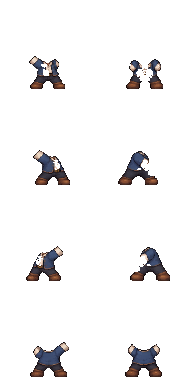
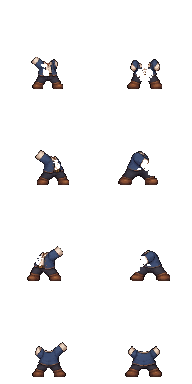
Fix registered character head layers and raised-hand occlusion

diff --git a/src/assets.js b/src/assets.js
@@ -64,19 +64,19 @@ const CHARACTER_TEMP_APPEARANCE_URLS=Object.freeze({
   berry:{icon:'assets/player/temporary-appearance/berry-icon.png'}
 });
 const CHARACTER_LAYER_URLS=Object.freeze({
-  walkBody:'assets/player/rig-v1/walk-body.png',
+  walkBody:'assets/player/polish-v1/walk-body.png',
   walkHead:'assets/player/polish-v1/walk-head.png',
   walkHair:'assets/player/polish-v1/walk-hair.png',
   walkOutfit:'assets/player/polish-v1/walk-outfit.png',
   walkBackpack:'assets/player/polish-v1/walk-backpack.png',
   walkGrip:'assets/player/rig-v1/walk-grip.png',
-  chopBody:'assets/player/rig-v1/chop-body.png',
+  chopBody:'assets/player/polish-v1/chop-body.png',
   chopHead:'assets/player/polish-v1/chop-head.png',
   chopHair:'assets/player/polish-v1/chop-hair.png',
   chopOutfit:'assets/player/polish-v1/chop-outfit.png',
   chopBackpack:'assets/player/polish-v1/chop-backpack.png',
   chopGrip:'assets/player/rig-v1/chop-grip.png',
-  fishBody:'assets/player/rig-v1/fish-body.png',
+  fishBody:'assets/player/polish-v1/fish-body.png',
   fishHead:'assets/player/polish-v1/fish-head.png',
   fishHair:'assets/player/polish-v1/fish-hair.png',
   fishOutfit:'assets/player/polish-v1/fish-outfit.png',

diff --git a/src/character.js b/src/character.js
@@ -109,7 +109,12 @@ function drawCharacterActor(actorX,actorY,pose=getCharacterPose()){
   if(transform?.behind)drawCharacterTool(transform);
   drawLayer('Body');drawLayer('Outfit');drawLayer('Backpack');
   if(!transform?.behind)drawCharacterTool(transform);
-  drawLayer('Head');drawLayer('Hair');drawLayer('Grip');
+  // A raised preparation hand passes behind the head. Drawing all gripping
+  // hands last made this skin patch look like an exposed bald rear skull.
+  const handBehindHead=(pose.pose==='chop'||pose.pose==='fish')&&pose.frame===0;
+  if(handBehindHead)drawLayer('Grip');
+  drawLayer('Head');drawLayer('Hair');
+  if(!handBehindHead)drawLayer('Grip');
   return transform;
 }
 

diff --git a/assets/player/source/polish-v1/PRODUCTION.md b/assets/player/source/polish-v1/PRODUCTION.md
@@ -1,5 +1,20 @@
 # 승인된 기본 캐릭터 — 게임용 부품 제작 기록
 
+## 2026-09-26 머리 등록·가림 수정 (최신 기준)
+
+최초 개별 Head/Hair 정렬은 뒤통수가 노출되어 부적합했다. 아래 최초 제작/검사 기록은 이력이다. 최신 pack-character-polish.mjs는 완성된 사방향 머리 원본을 한 번 등비 정규화하고 동일 좌표에서 피부/얼굴/귀와 헤어를 분리한다. 이전의 독립적인 bald skull 크기 맞춤은 사용하지 않는다. head-registration.png가 실제 합성 기준이며 자동 검사에서 정확한 픽셀 일치를 확인한다. Head는 현재 머리에서 보이는 얼굴/귀 픽셀을 갖는다. 향후 완전히 다른 헤어스타일은 이 얼굴과 새 헤어의 가림 마스크/숨겨진 두피를 함께 검토해야 하며 셀 크기만 맞춘다고 자동 호환되는 것으로 간주하지 않는다.
+
+- 제작 도구: 내장 image_gen 기본 모드, 투명 배경. CLI/API 키 미사용.
+- 입력: 승인된 turnaround-generated.png(스타일/동일 인물 참고).
+- 생성 원본 exec-fe8c4845-72a5-49de-9973-bfa694eb49e1.png를 head-registered-generated.png로 이 폴더에 보존했다.
+- 결과: assets/player/polish-v1/{walk,chop,fish}-{body,head,hair,outfit,backpack}.png 15개, outfit/backpack-icon.png 2개, head-registration.png 1개. Body는 기존 원본의 y54 위 분리 잔여만 제거한 복사본이며 손/몸 자세는 유지한다. 옷은 원화 비율을 등비 유지하고 원래 중심/발에 맞춘다.
+- 준비 자세의 그립 손은 머리 뒤에 그린다. 타격/대기/당기기 손 순서는 유지한다. 기존 rig-v1, 도구 및 리그/손 좌표/타이밍/저장은 변경하지 않았다. 임시 옷의 기존 디자인과 선택도 유지한다.
+- 검사는 qa-character-polish.mjs 및 QA_REPORT.md 최신 절 참고. Android 실기기 확인은 별도다.
+
+### 수정 원화의 정확한 프롬프트
+
+Use case: identity-preserve. Asset type: production pixel-art game head sprite atlas. Reference image is the approved male character turnaround. Create ONLY four fully assembled heads with attached brown hair, face and ears, no torso, no clothing, no neck longer than a tiny 2 pixel stem. EXACT layout 2 columns by 2 rows: top-left front/down, top-right looking right, bottom-left looking left, bottom-right rear/up. Same approved rounded layered chestnut hair, large brown eyes, peach skin, refined cozy RPG pixel-art outline. Each head is a unified correctly fitting silhouette, hair covers the entire crown and rear skull; absolutely no exposed bald forehead above hair and no skin protrusion behind hair. Rear view only brown hair and small ear tips, NO bare skull and NO long neck. Equal scale in every view, generous transparent margins within each equal cell. Preserve approved identity, hair design/color, direction, pixel art style. No props, no labels, no grid, no shadow, transparent background. Produce crisp clean pixels suitable for nearest-neighbor downsampling to a 44x42 pixel head inside a 96x96 game cell.
+
 사용자 승인: 방향별 디자인을 보고 ‘좋아요. 맘에들어요’라고 확인했다. 갈색 머리·파란 여행복·갈색 가방의 개선안을 기존 모션 규격으로 제작·연결했다.
 
 ## 도구·입력·최종 저장 경로

diff --git a/docs/HANDOFF.md b/docs/HANDOFF.md
@@ -4,6 +4,8 @@
 
 기준 브랜치: `main`
 
+2026-09-26 기본 외형 겹침 수정: 직전 개선본의 머리/헤어 개별 크기 맞춤이 뒤통수 노출을 만들었으며 기존 검사는 크기만 확인해 이를 놓쳤다. head-registered-generated.png의 완성된 사방향 머리를 한 번만 등비 정규화하고 같은 픽셀 좌표에서 Head/Hair로 분리한다. 합성 결과는 head-registration.png와 정확히 같아야 한다. Body는 원본을 보존한 채 polish-v1의 별도 시트로 y54 위 분리 잔여를 정리했다. 기본 파란 옷도 원화 비율을 유지해 중심/발 기준으로 맞췄다. 준비 자세(chop/fish frame0)는 도구→그립 손→머리/헤어 순으로 그려 머리 뒤쪽의 손 피부가 뒤통수처럼 보이지 않게 했다. 타격/대기/당기기 손은 기존처럼 앞에 그린다. 모션 데이터·손잡이·동작 타이밍·장착/저장/진행도는 유지한다. 임시 붉은/노란 옷은 재디자인하지 않았으며 기존 착용을 기본 옷으로 강제 변경하지 않는다. 아래 최초 개선 완료 기록은 당시 검사 결과이며 외형 가림이 정상이라는 증거로 사용하지 말 것. 최신 검사 범위는 QA_REPORT.md의 겹침 수정 절을 따른다.
+
 2026-09-26 승인된 기본 캐릭터 미술 개선 완료: 방향별 원화 승인 후 새 얼굴·갈색 헤어·파란 여행복·갈색 가방을 부품별로 제작해 걷기3/벌목2/낚시3×4방향32자세에 연결했다. 12개 PNG+기본 옷/가방 전용 아이콘2개는 assets/player/polish-v1/에 두고 기존 등록 ID를 유지한다. 몸/그립 손·원본 rig-v1·무기·src/character.js·리그 데이터/손잡이/크기/동작 타이밍은 그대로다. 머리/헤어 공통 크기와 기존 목 움직임, 손 노출·측면 타격 가방 cap을 보존한다. 옷은 기존 윤곽 전체로 잘라 넣지 않고 동작 영역/손 노출을 지키며 새 장식·명암을 살렸다. 임시 옷/가방 두 종씩과 조합·교체 가능하고 돈·레벨·인벤토리·착용/소유·저장 키/버전은 바꾸지 않았다. 원화/전체 프롬프트/제작 원칙은 assets/player/source/polish-v1/PRODUCTION.md. 179개 에셋·32자세 규격/원본 불변·기본/두 임시/시험 외형 실제 생활 동작·9조합288자세·시험256자세·모바일/PC 가방·단일 도구 회귀 통과. 실제 Android 확인은 별도다. 아래 ‘디자인 확인 대기’는 최초 단계 이력이며 현재는 승인/연결 완료 상태다.
 
 기본 캐릭터 미술 개선 진행 중: 기존 모션/손잡이/동작 타이밍을 유지한 NPC 스타일 개선 요청이다. 먼저 갈색 머리·파란 여행복·갈색 가방의 네 방향 대기 디자인을 생성하고 assets/player/source/polish-v1/review.html에서 기존 주인공/엘리/준과 실제 표시 크기로 비교했다. 현 단계는 사용자 디자인 확인 대기이며 게임 외형/런타임 등록/리그/저장/공개 배포를 변경하지 않았다. 생성 원본·프롬프트·미완료 항목/다음 순서는 같은 폴더 README.md. scripts/pack-character-polish-review.mjs는 검토용 정규화만 하며 완성 동작 에셋으로 간주하지 말 것. 기존 PNG/임시 선택 외형/돈/레벨은 유지한다.

diff --git a/QA_REPORT.md b/QA_REPORT.md
@@ -6,6 +6,14 @@
 
 지원 기준: Android 세로 화면, 키보드 보조 입력, GitHub Pages
 
+## 기본 외형 머리·손 가림 수정 (2026-09-26)
+
+- 원인: 이전 Head/Hair 개별 바운딩박스 맞춤은 같은 셀이어도 합성 위치가 맞지 않았다. 기존 크기/동작 검사 통과는 가림 품질을 보장하지 않았으며 사용자가 뒤통수 노출을 발견했다. 준비 자세의 그립 손이 머리 위에 그려지는 피부 덩어리도 있었다.
+- 수정: 사방향 완성 머리 한 번 등비 정규화 후 같은 좌표의 Head/Hair 픽셀 소유를 분리한다. head-registration.png와 정확한 재합성/겹친 픽셀 없음 검사 추가. Body의 목 위 분리 잔여를 별도 3시트에서 정리하고 기본 옷의 원화 비율/중심/발 정렬을 지킨다. 준비 그립 손은 머리 뒤에, 타격/당기기 손은 앞에 둔다. 도구 그립·모션 데이터·타이밍·기존 원본·착용/진행도 저장은 유지한다.
+- 로컬: check, qa-character-polish의 32자세/18제작 파일/머리 재합성/Body 잔여 없음/손 노출/좌우 가방 cap86픽셀 통과. 실제 렌더러의 사방향/좌우 벌목 확대 화면을 검토했다.
+- Chrome 회귀: 기본·불꽃/등산·정원/딸기·시험 세트 생활 동작(각32자세/10도구, 낚시 획득/XP·벌목 피해·허공 동작), 옷/가방9조합288자세, 시험256자세, 단일 도구, 가방393×780/320×568/PC 장착·상세·뒤로/앞으로·재접속·저장 실패 복원 통과. 브라우저 오류0. 실제 Android는 별도 확인 필요.
+- 기존 선택은 초기화하지 않는다. 기본 파란 옷의 연결/비율 수정이지 임시 붉은/노란 옷의 새로운 디자인 제작이 아니다.
+
 ## 승인된 기본 캐릭터 미술 개선 (2026-09-26)
 
 - 승인한 방향별 디자인으로 얼굴/갈색 헤어/파란 기본 의상/갈색 가방의 새 부품12PNG+아이콘2개를 제작·연결했다. 기존 몸/그립/원본18레이어/무기10종/캐릭터 렌더러/리그 데이터는 Git 기준 바이트 동일 검사 통과. 실제 그림만 교체하고 손잡이·셀/발·동작 타이밍·외형 ID·진행도/저장 형식은 유지한다.

diff --git a/docs/CHARACTER_APPEARANCE.md b/docs/CHARACTER_APPEARANCE.md
@@ -8,6 +8,8 @@
 
 ## 1. 공통 좌표
 
+2026-09-26 겹침 수정 기준: Head/Hair는 완성된 사방향 머리 원본에서 **한 번의 등비 배율과 공통 위치**를 적용한 뒤 같은 좌표의 픽셀을 분리한다. 독립 bald/head와 hair의 알파 경계를 각각 맞춰 늘리지 않는다. 합성 시 polish-v1/head-registration.png와 픽셀 일치를 검사한다. 현재 Body도 polish-v1의 정리본을 사용하며 원본 rig-v1은 보존한다. 옷은 등비 축소와 중심/발 정렬을 사용한다. 준비 자세의 올린 그립 손은 Head/Hair보다 뒤에, 다른 자세 손은 앞에 표시한다. 리그/손잡이/시간/크기/저장은 변경하지 않았다. 아래 최초 연결의 Body/그립/렌더러 불변 표현은 그때의 이력이며 최신 연결과 혼동하지 말 것.
+
 2026-09-26 미술 개선: 사용자가 승인한 새 기본 얼굴/헤어/옷/가방은 assets/player/polish-v1/을 런타임 기본 부품으로 사용한다. 기존 ID 및 공통 모션 규격은 그대로다. 몸/그립은 rig-v1을 계속 사용하고 원본 rig-v1의 모든 파일을 보존한다. 스크립트/분리·생성 프롬프트/QA 세부는 assets/player/source/polish-v1/PRODUCTION.md. 외형 품질 개선을 모션 시스템 재제작/원본 재합성 규격 변경으로 오해하지 말 것.
 
 - 모든 게임용 캐릭터 레이어는 **96×96 셀**, 발 기준 **(48,88)** 를 사용한다.
